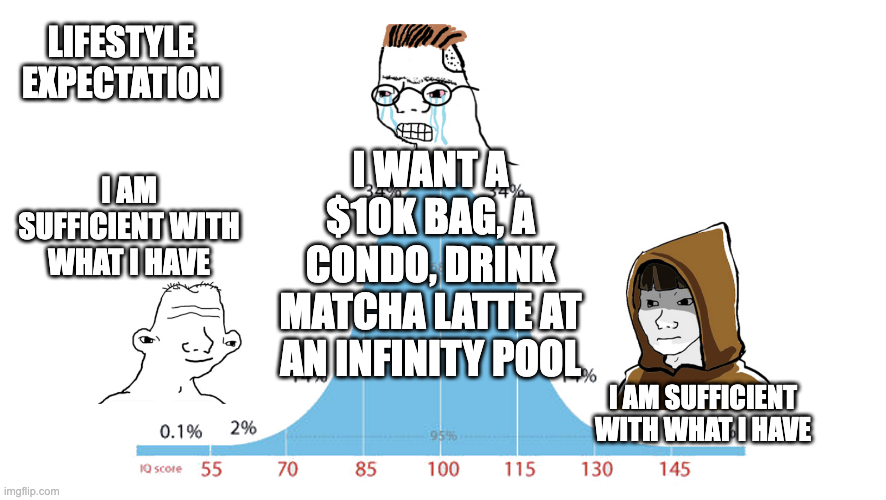
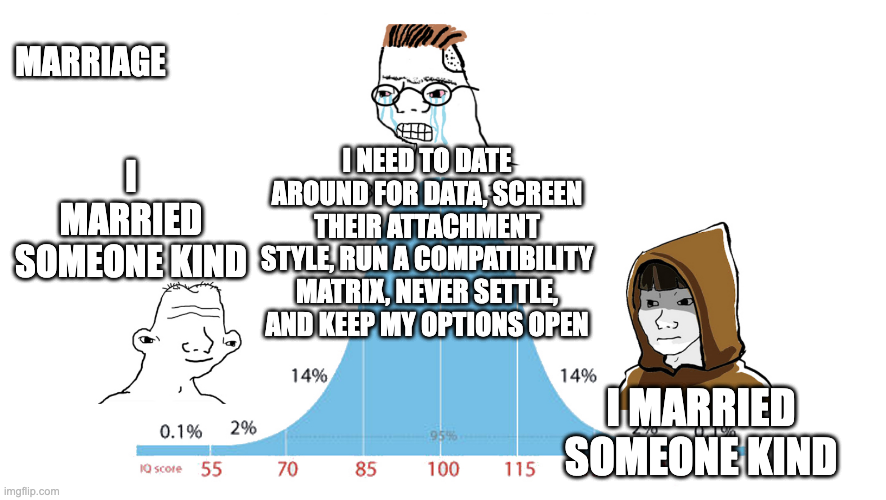
Replace Midwit Cleanse lifestyle meme with marriage theme.
Swap the lifestyle expectations bell curve for the marriage optimization meme.

Changed region(s): [[0.0, 0.27, 0.9752, 0.96], [0.0, 0.03, 0.2743, 0.21]]

diff --git a/midwit-cleanse.md b/midwit-cleanse.md
@@ -20,7 +20,7 @@ Here are some reasons for the cleanse.
 
 <img src="/img/midwit-cleanse-affordability.png" alt="Midwit meme about affording kids">
 
-<img src="/img/midwit-cleanse-lifestyle.png" alt="Midwit meme about lifestyle expectations">
+<img src="/img/midwit-cleanse-lifestyle.png" alt="Midwit meme about marriage">
 
 </div>
 